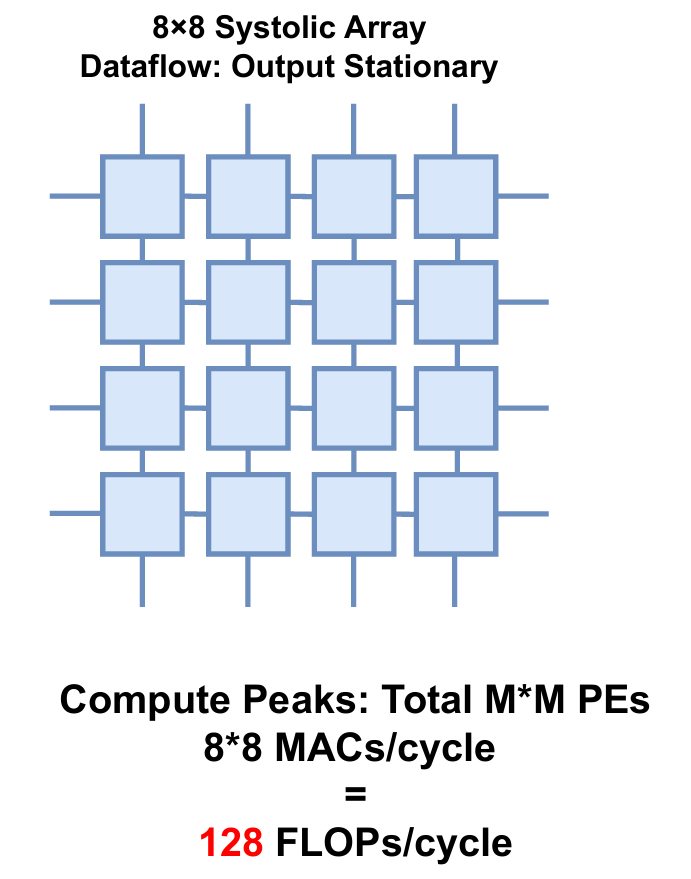
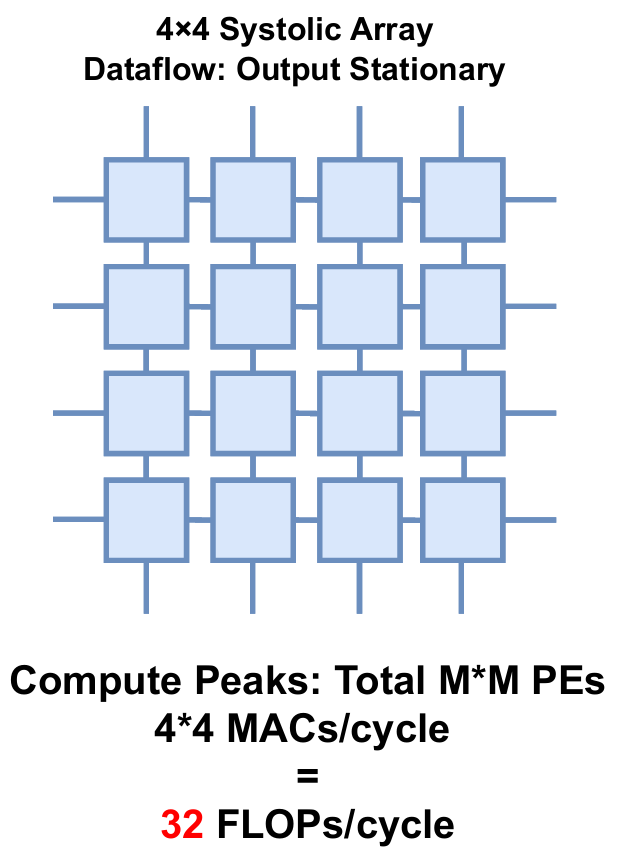
adjusted figs and descriptions

Changed region(s): [[0.0606, 0.1249, 0.8788, 0.7179], [0.0, 0.7491, 0.9697, 0.9988], [0.0909, 0.0, 0.8182, 0.0936]]

diff --git a/documentation/mdlm.md b/documentation/mdlm.md
@@ -95,7 +95,7 @@ The performance of the system is determined by comparing the **Peak_FLOPS** (com
 *Figure 10: Roofline model representation showing the relationship between operational intensity (OI) and performance.
 
 ### Performance Evaluation
-For the DDitBlock featuring sequential computations through various operators, The total **FLOPs** for each step are modeled as below. Specifically, all the GEMM computations are supported by output-stationary styled systolic arrays.
+For the DDitBlock featuring sequential computations through various operators, The total **FLOPs** for each step are modeled as below. Specifically, all the GEMM computations are supported by output-stationary styled systolic arrays. For instance, the following figure shows how to model the compute peak of a 4*4 systolic array.
 
 ![](./fig/sa.png)
 
